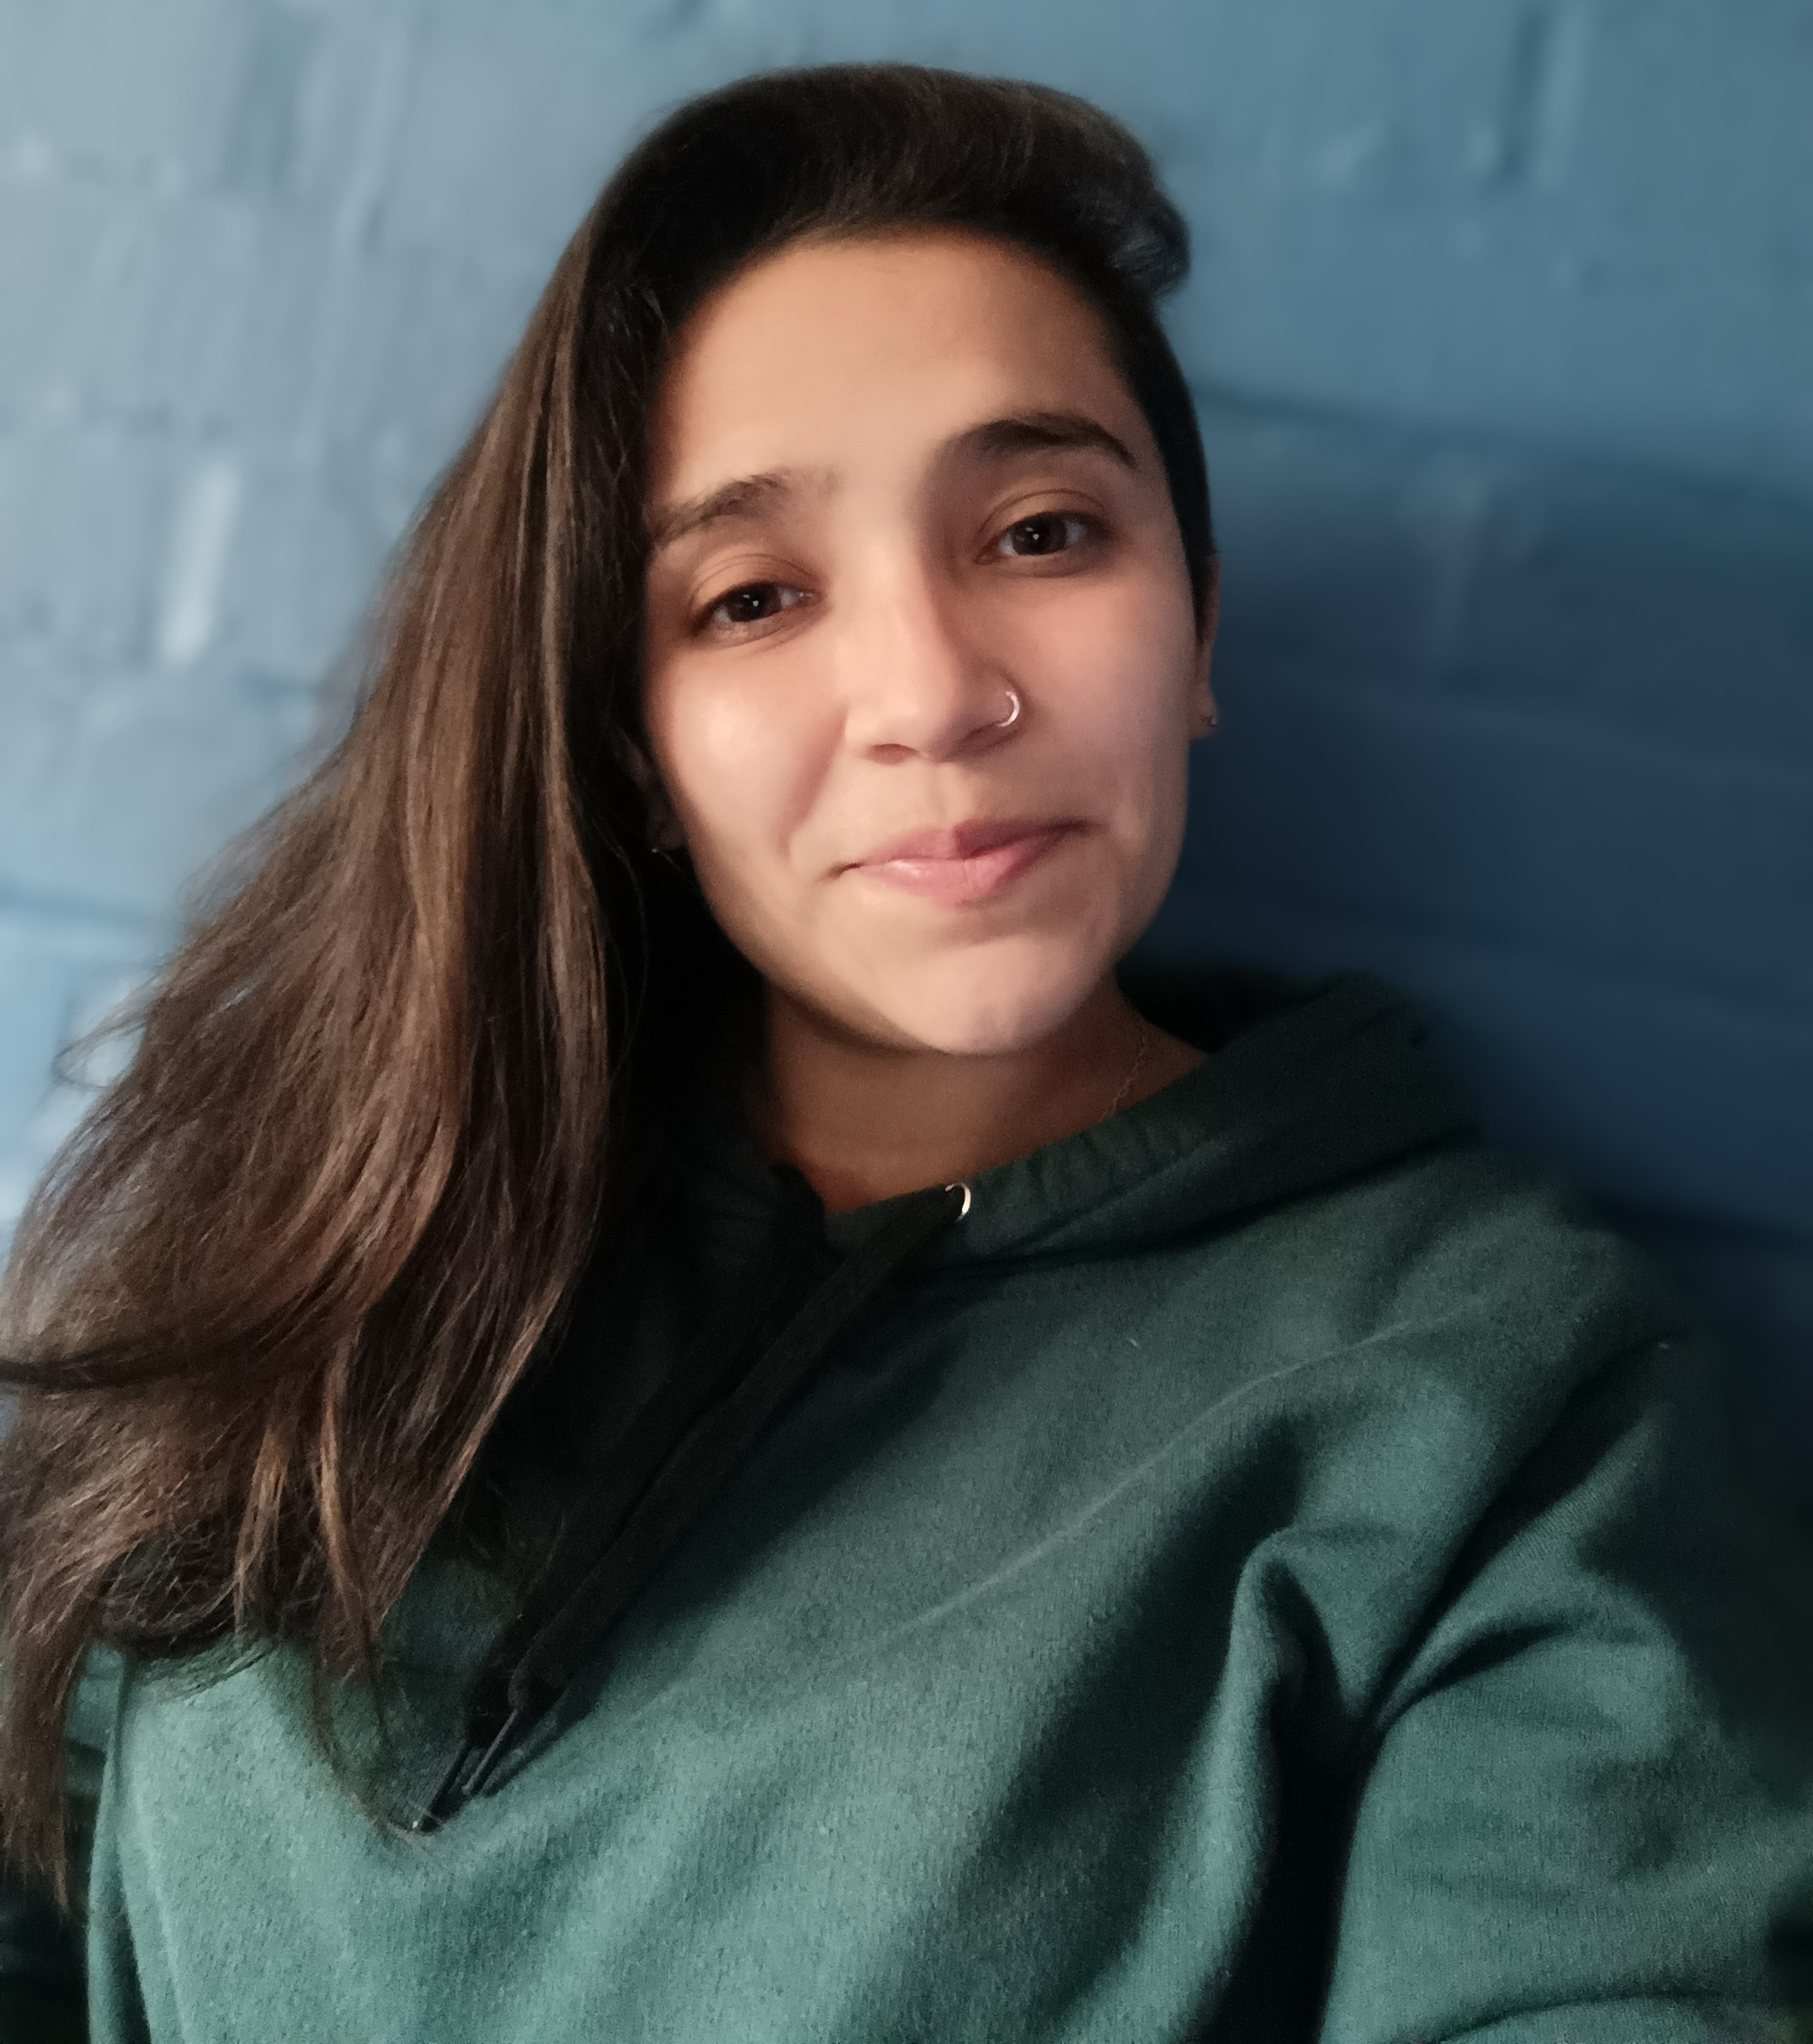
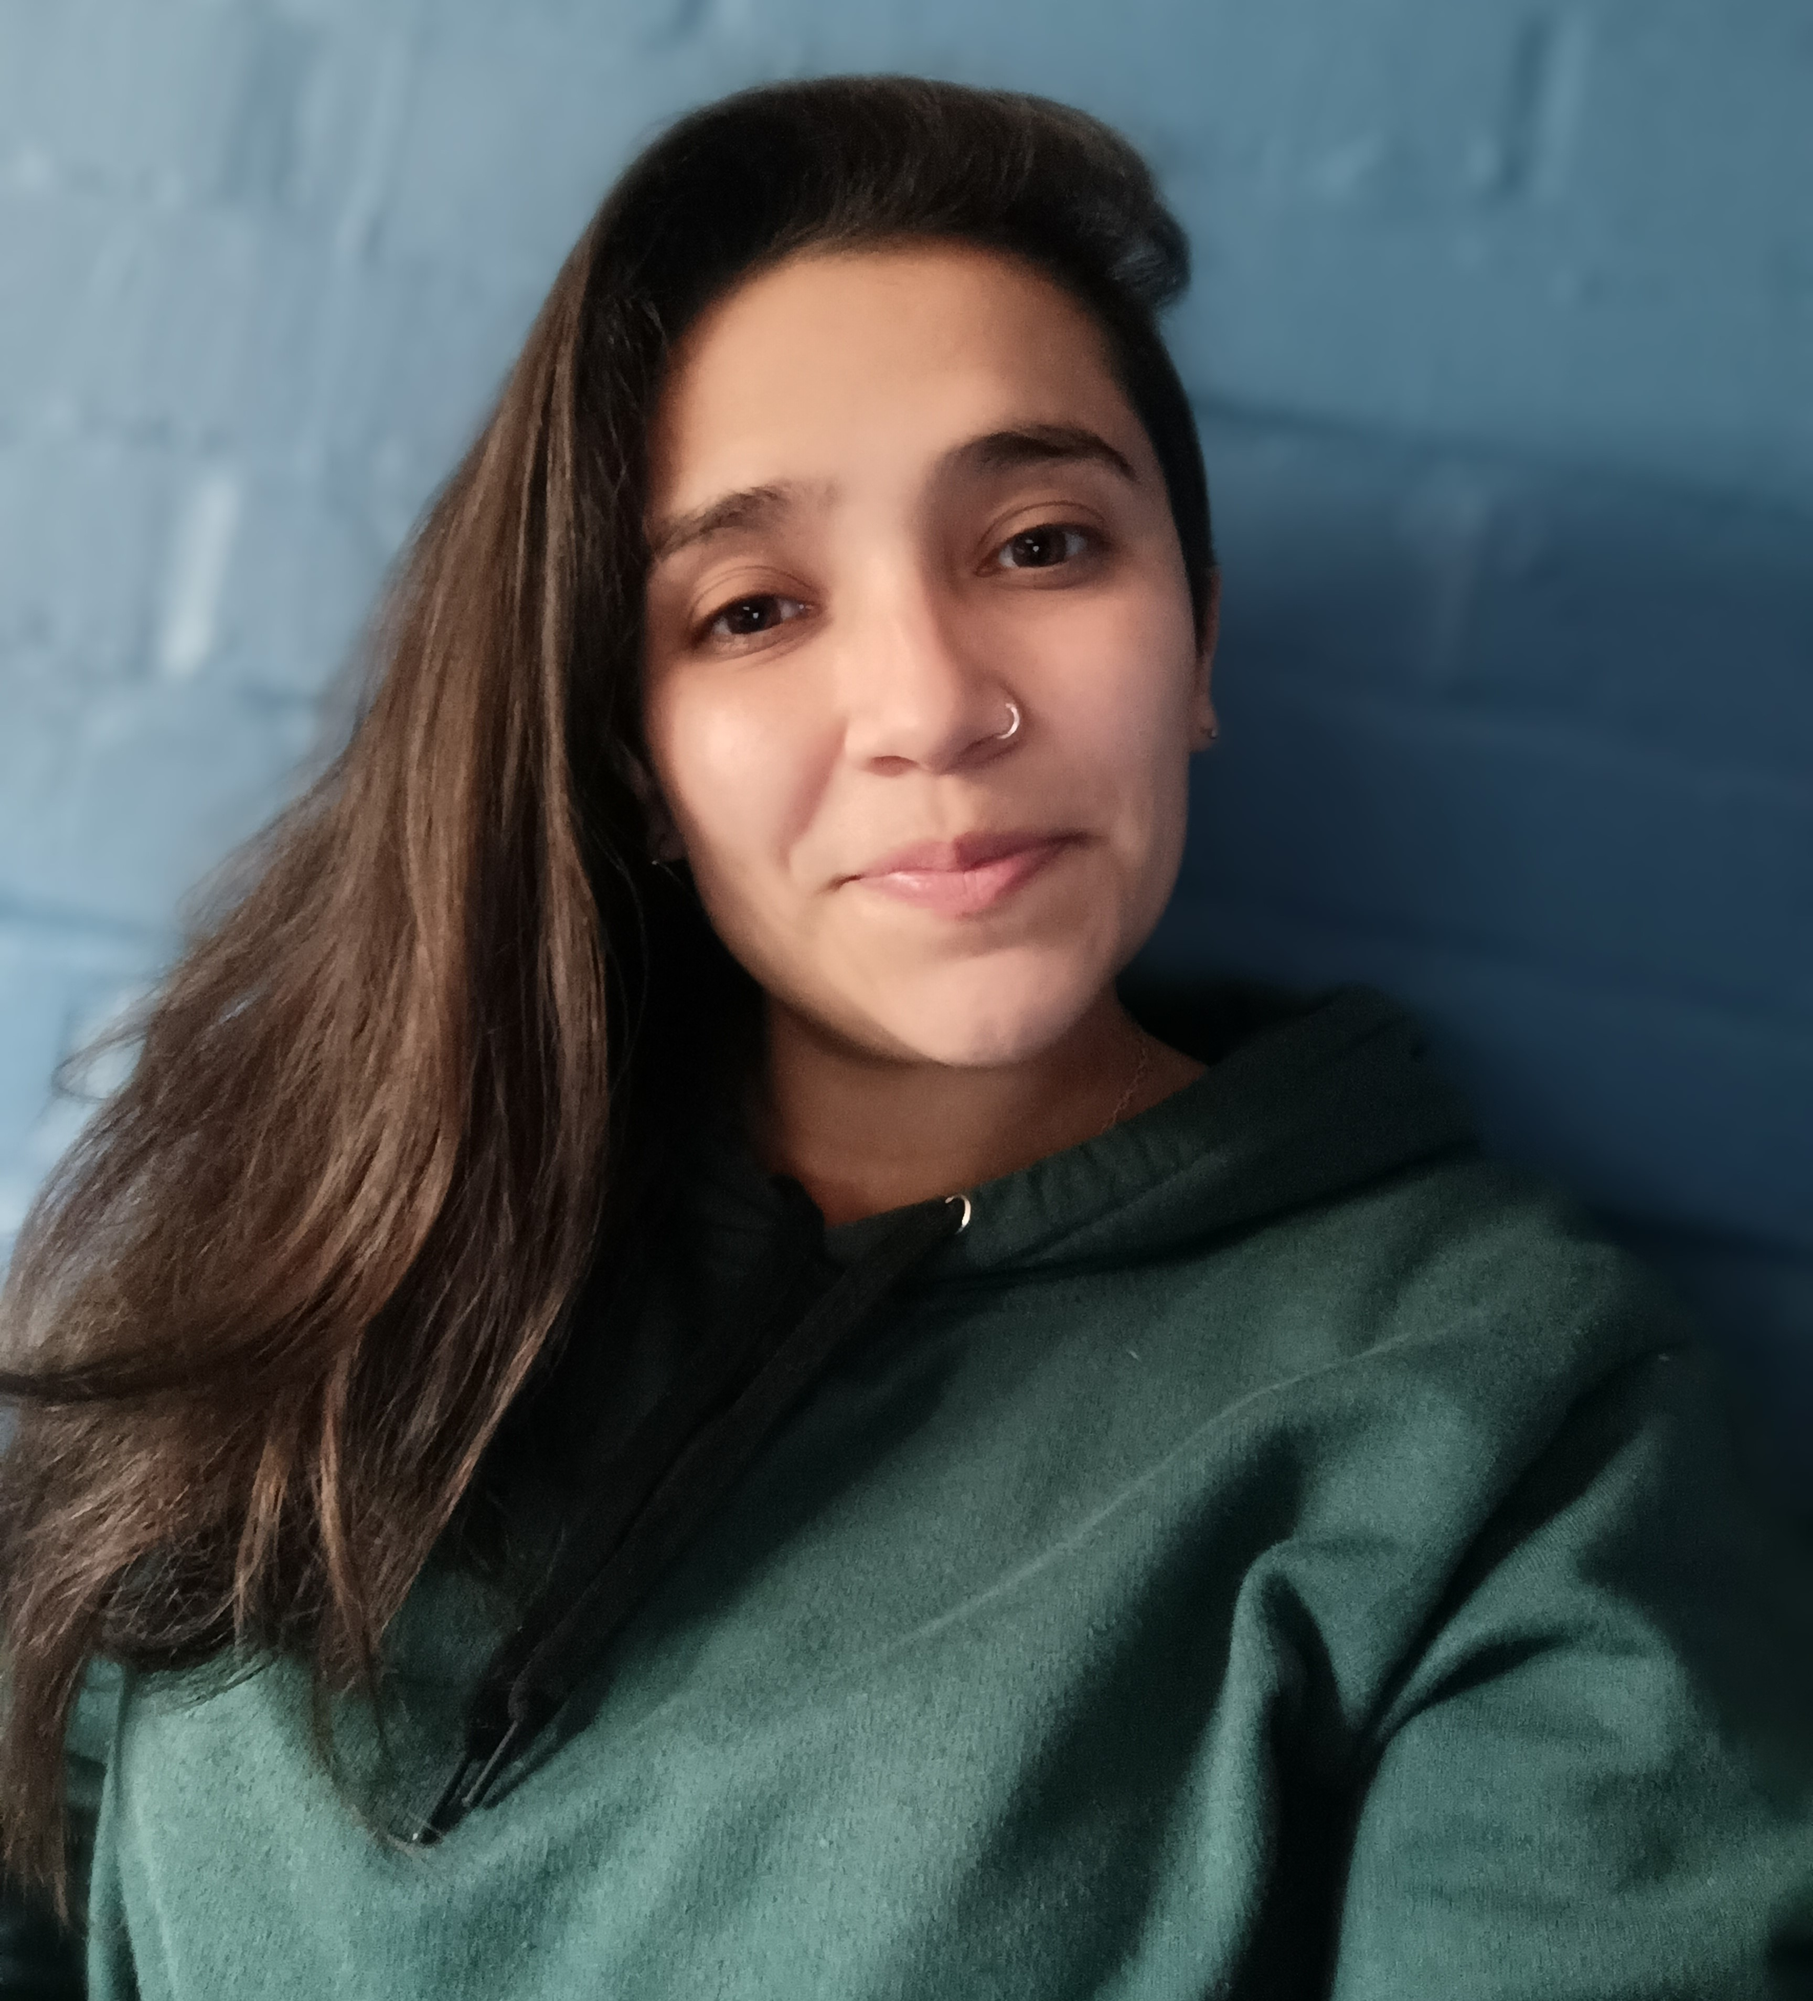
agregando formacion

diff --git a/index.html b/index.html
@@ -9,14 +9,14 @@
 </head>
 <body>
     <header>
-        <nav class="d-flex p-3 justify-content-around">
+        <nav class="d-flex p-3 justify-content-around align-items-center">
             
                 <img src="./assets/img/LogoBlanco.png" alt="Logo zhammi blanco">
-                <ul class="d-flex justify-content gap-4">
-                    <li class="me-3">Tecnologías</li>
-                    <li class="me-3">Formacion</li>
-                    <li class="me-3">Proyectos</li>
-                    <li class="me-3">Contacto</li>
+                <ul class="d-flex gap-4">
+                    <li class="me-3 mt-3">Tecnologías</li>
+                    <li class="me-3 mt-3">Formacion</li>
+                    <li class="me-3 mt-3">Proyectos</li>
+                    <li class="me-3 mt-3">Contacto</li>
                 </ul> 
         </nav>
     </header>
@@ -24,12 +24,17 @@
         <section class="container pt-5">
             <div>
                 <div class="background p-5 d-flex">
-                    <div >
+                    <div class="principal" >
                         <h1>Samantha Ossandon</h1>
                         <h2 class="fs-4">Full Stack JS Developer</h2>
                         <p class="fw-light">Desarrolladora Full Stack especializada en JavaScript. Me especializo en la creación de aplicaciones web robustas y eficientes, utilizando tecnologías modernas para ofrecer soluciones innovadoras.</p>
                         <p class="fw-light">Tengo experiencia en la gestión y actualización de sitios web, así como en proyectos de TI y redes sociales, lo que me ha permitido desarrollar un enfoque práctico y efectivo para satisfacer las necesidades de los clientes.</p>
                         <p class="fw-light">Además, mi experiencia como Community Manager me ha brindado una comprensión profunda de las necesidades de los usuarios, permitiéndome diseñar interfaces atractivas y funcionales que conectan eficazmente con ellos.</p>
+                    <div class="d-flex gap-4">
+                        <i class="fa-brands fa-square-github fs-1"></i>
+                        <i class="fa-brands fa-linkedin fs-1"></i>
+                        <i class="fa-solid fa-envelope fs-1"></i>
+                    </div>
                     </div>
                     <div class=" d-flex justify-content-center" >
                         <img src="./assets/img/IMG_20230522_143058.jpg" alt="Foto" class="img-fluid rounded imgFixed">
@@ -96,6 +101,18 @@
         </section>
 
 <!-- Formacion -->
+
+<section>
+    <div class="secondary d-flex justify-content-center">
+        <div class="container row">
+            <div class="d-flex justify-content-center"><h2 class="fs-2">Formacion</h2></div>
+            <div>
+                <p></p>
+                
+            </div>
+        </div>
+    </div>
+</section>
 
         <!-- Proyectos  -->
 
@@ -173,6 +190,7 @@
             </div>
         </section>
     </main>
+    <script src="https://kit.fontawesome.com/18700748c0.js" crossorigin="anonymous"></script>
     <script src="https://code.jquery.com/jquery-3.5.1.slim.min.js"></script>
     <script src="https://cdn.jsdelivr.net/npm/@popperjs/core@2.5.2/dist/umd/popper.min.js"></script>
     <script src="https://stackpath.bootstrapcdn.com/bootstrap/4.5.2/js/bootstrap.min.js"></script>

diff --git a/assets/css/style.css b/assets/css/style.css
@@ -26,11 +26,13 @@ ul li {
 .background {
   background-color: #3c4c69;
   border-radius: 15px;
-  padding: 20px;
+  -webkit-box-shadow: 2px 2px 5px 0px rgba(0,0,0,0.43);
+-moz-box-shadow: 2px 2px 5px 0px rgba(0,0,0,0.43);
+box-shadow: 2px 2px 5px 0px rgba(0,0,0,0.43);
 }
 
 .background p {
-  font-size: 1rem;
+  font-size: 0.9rem;
   width: 600px;
 }
 
@@ -41,7 +43,7 @@ ul li {
 }
 
 .imgFixed {
-  width: 65%;
+  width: 60%;
 }
 
 /* Secondary */
